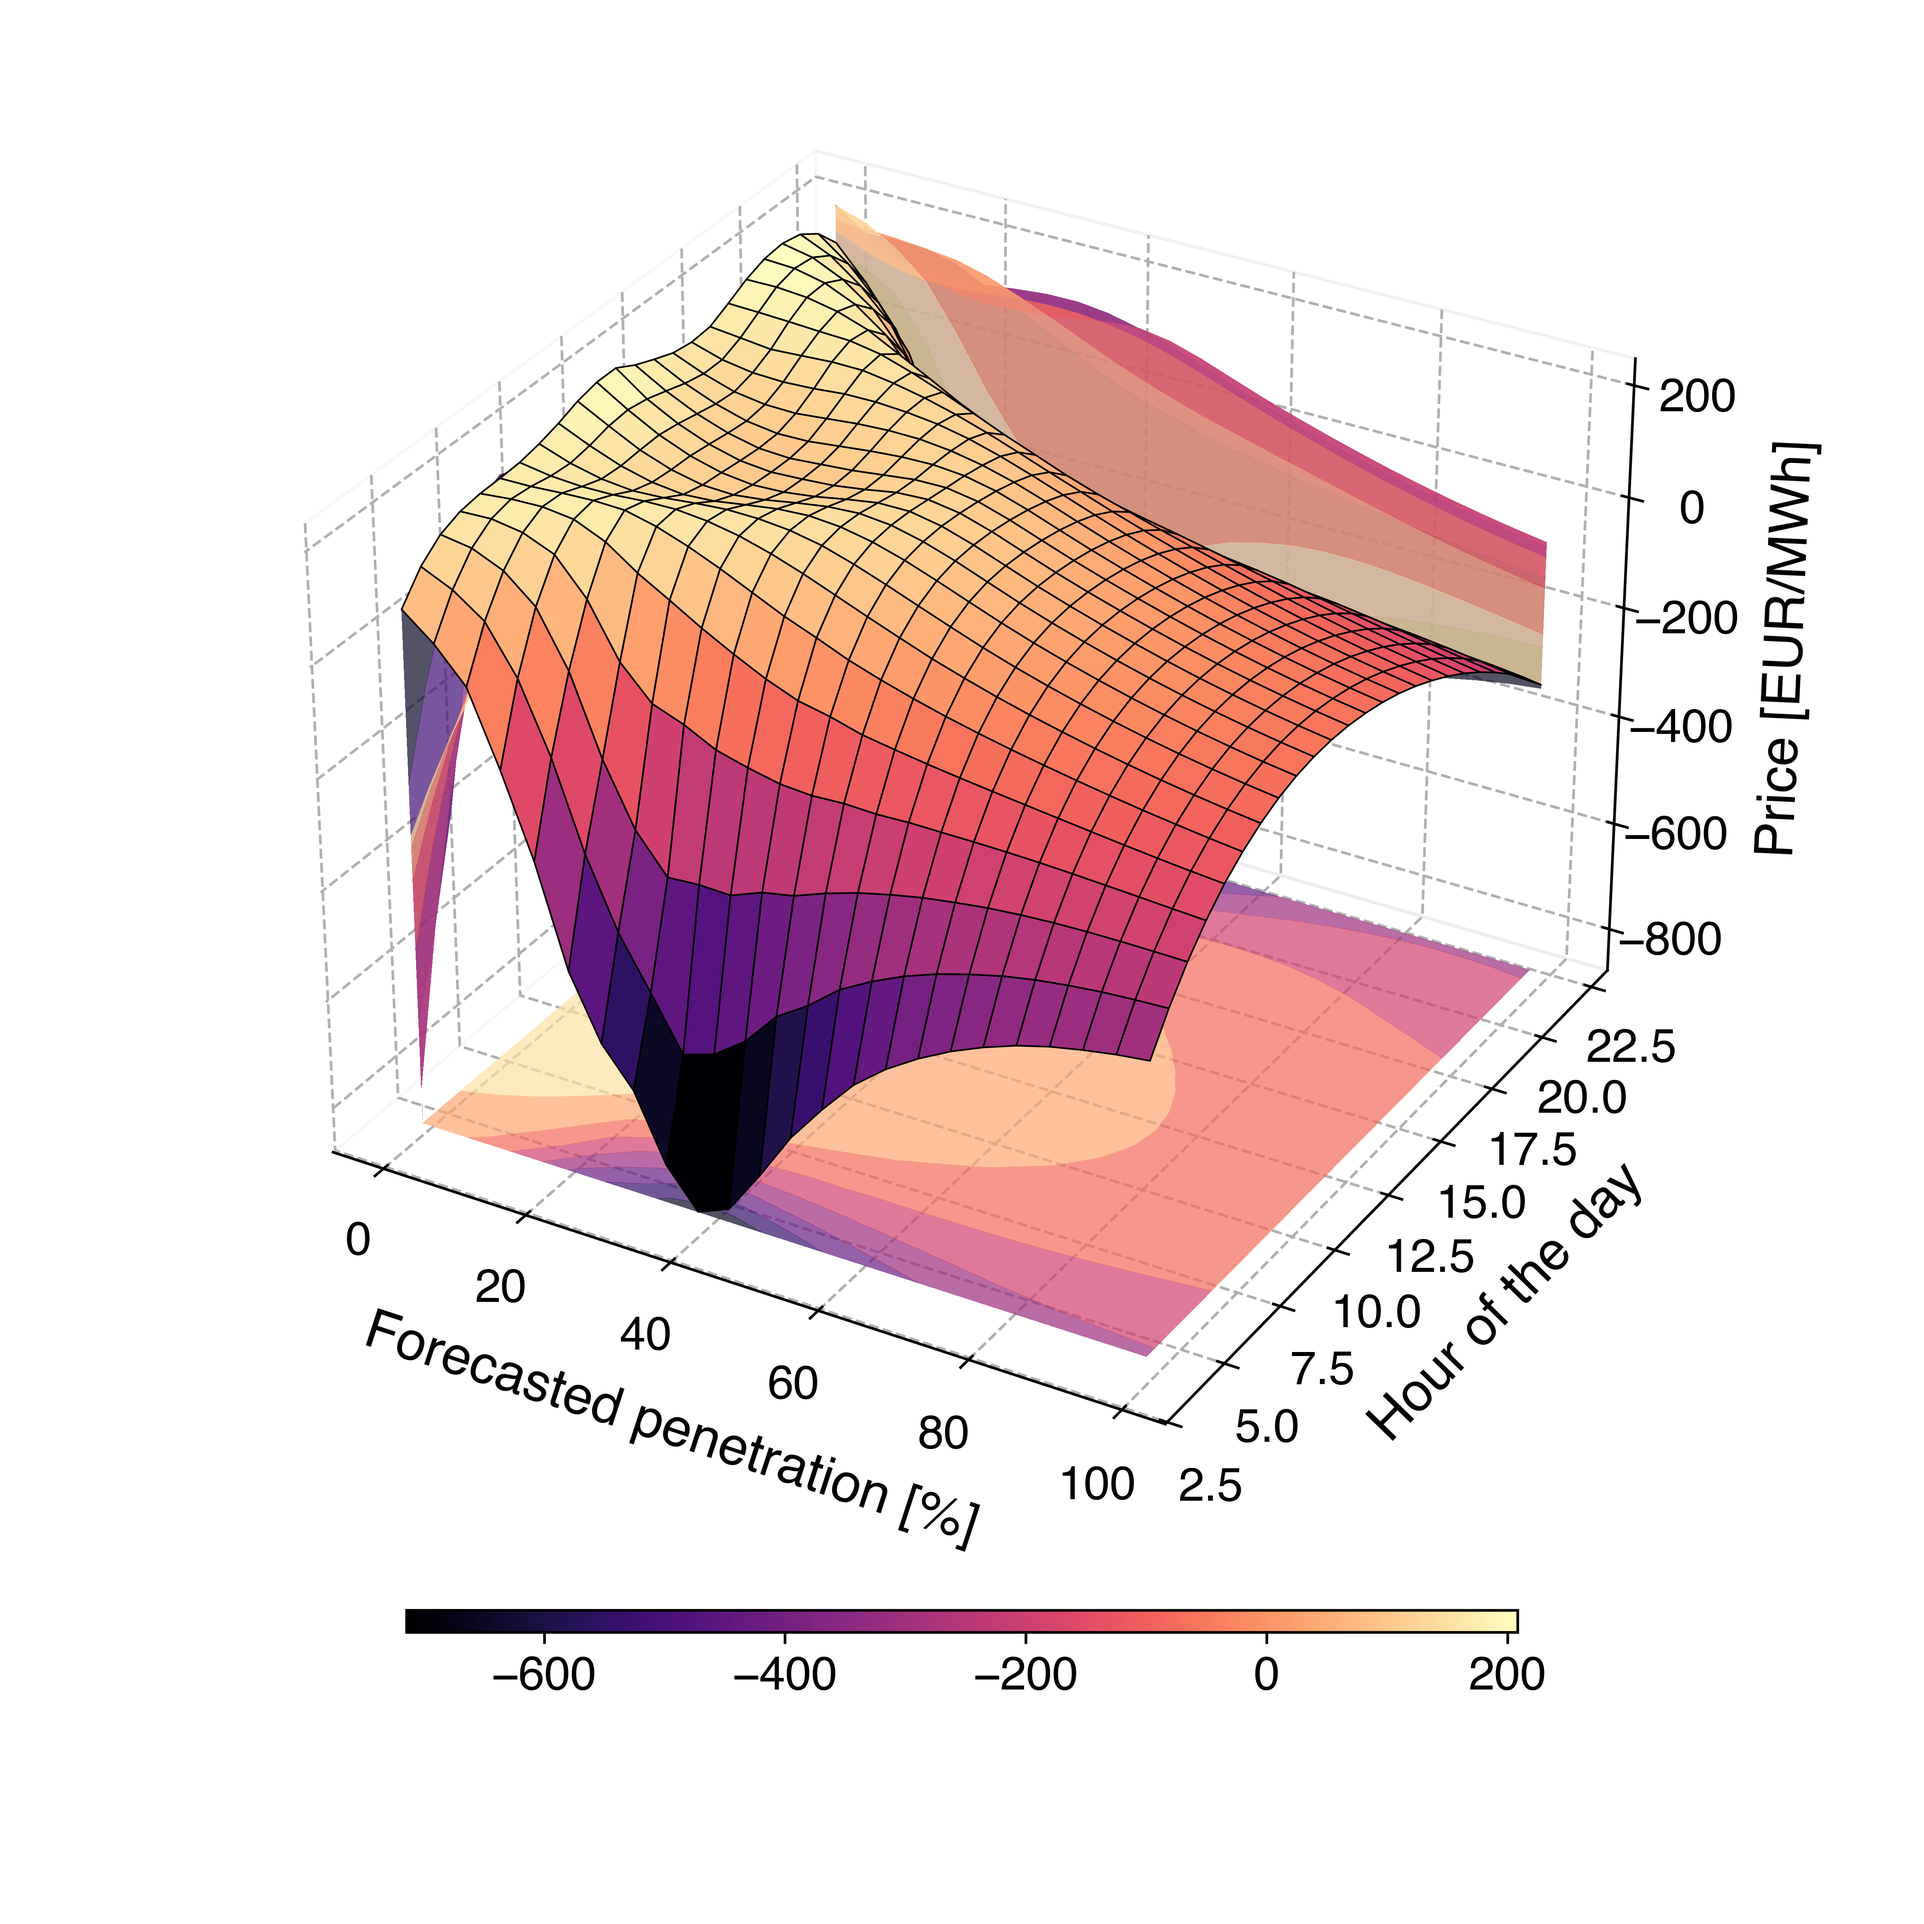
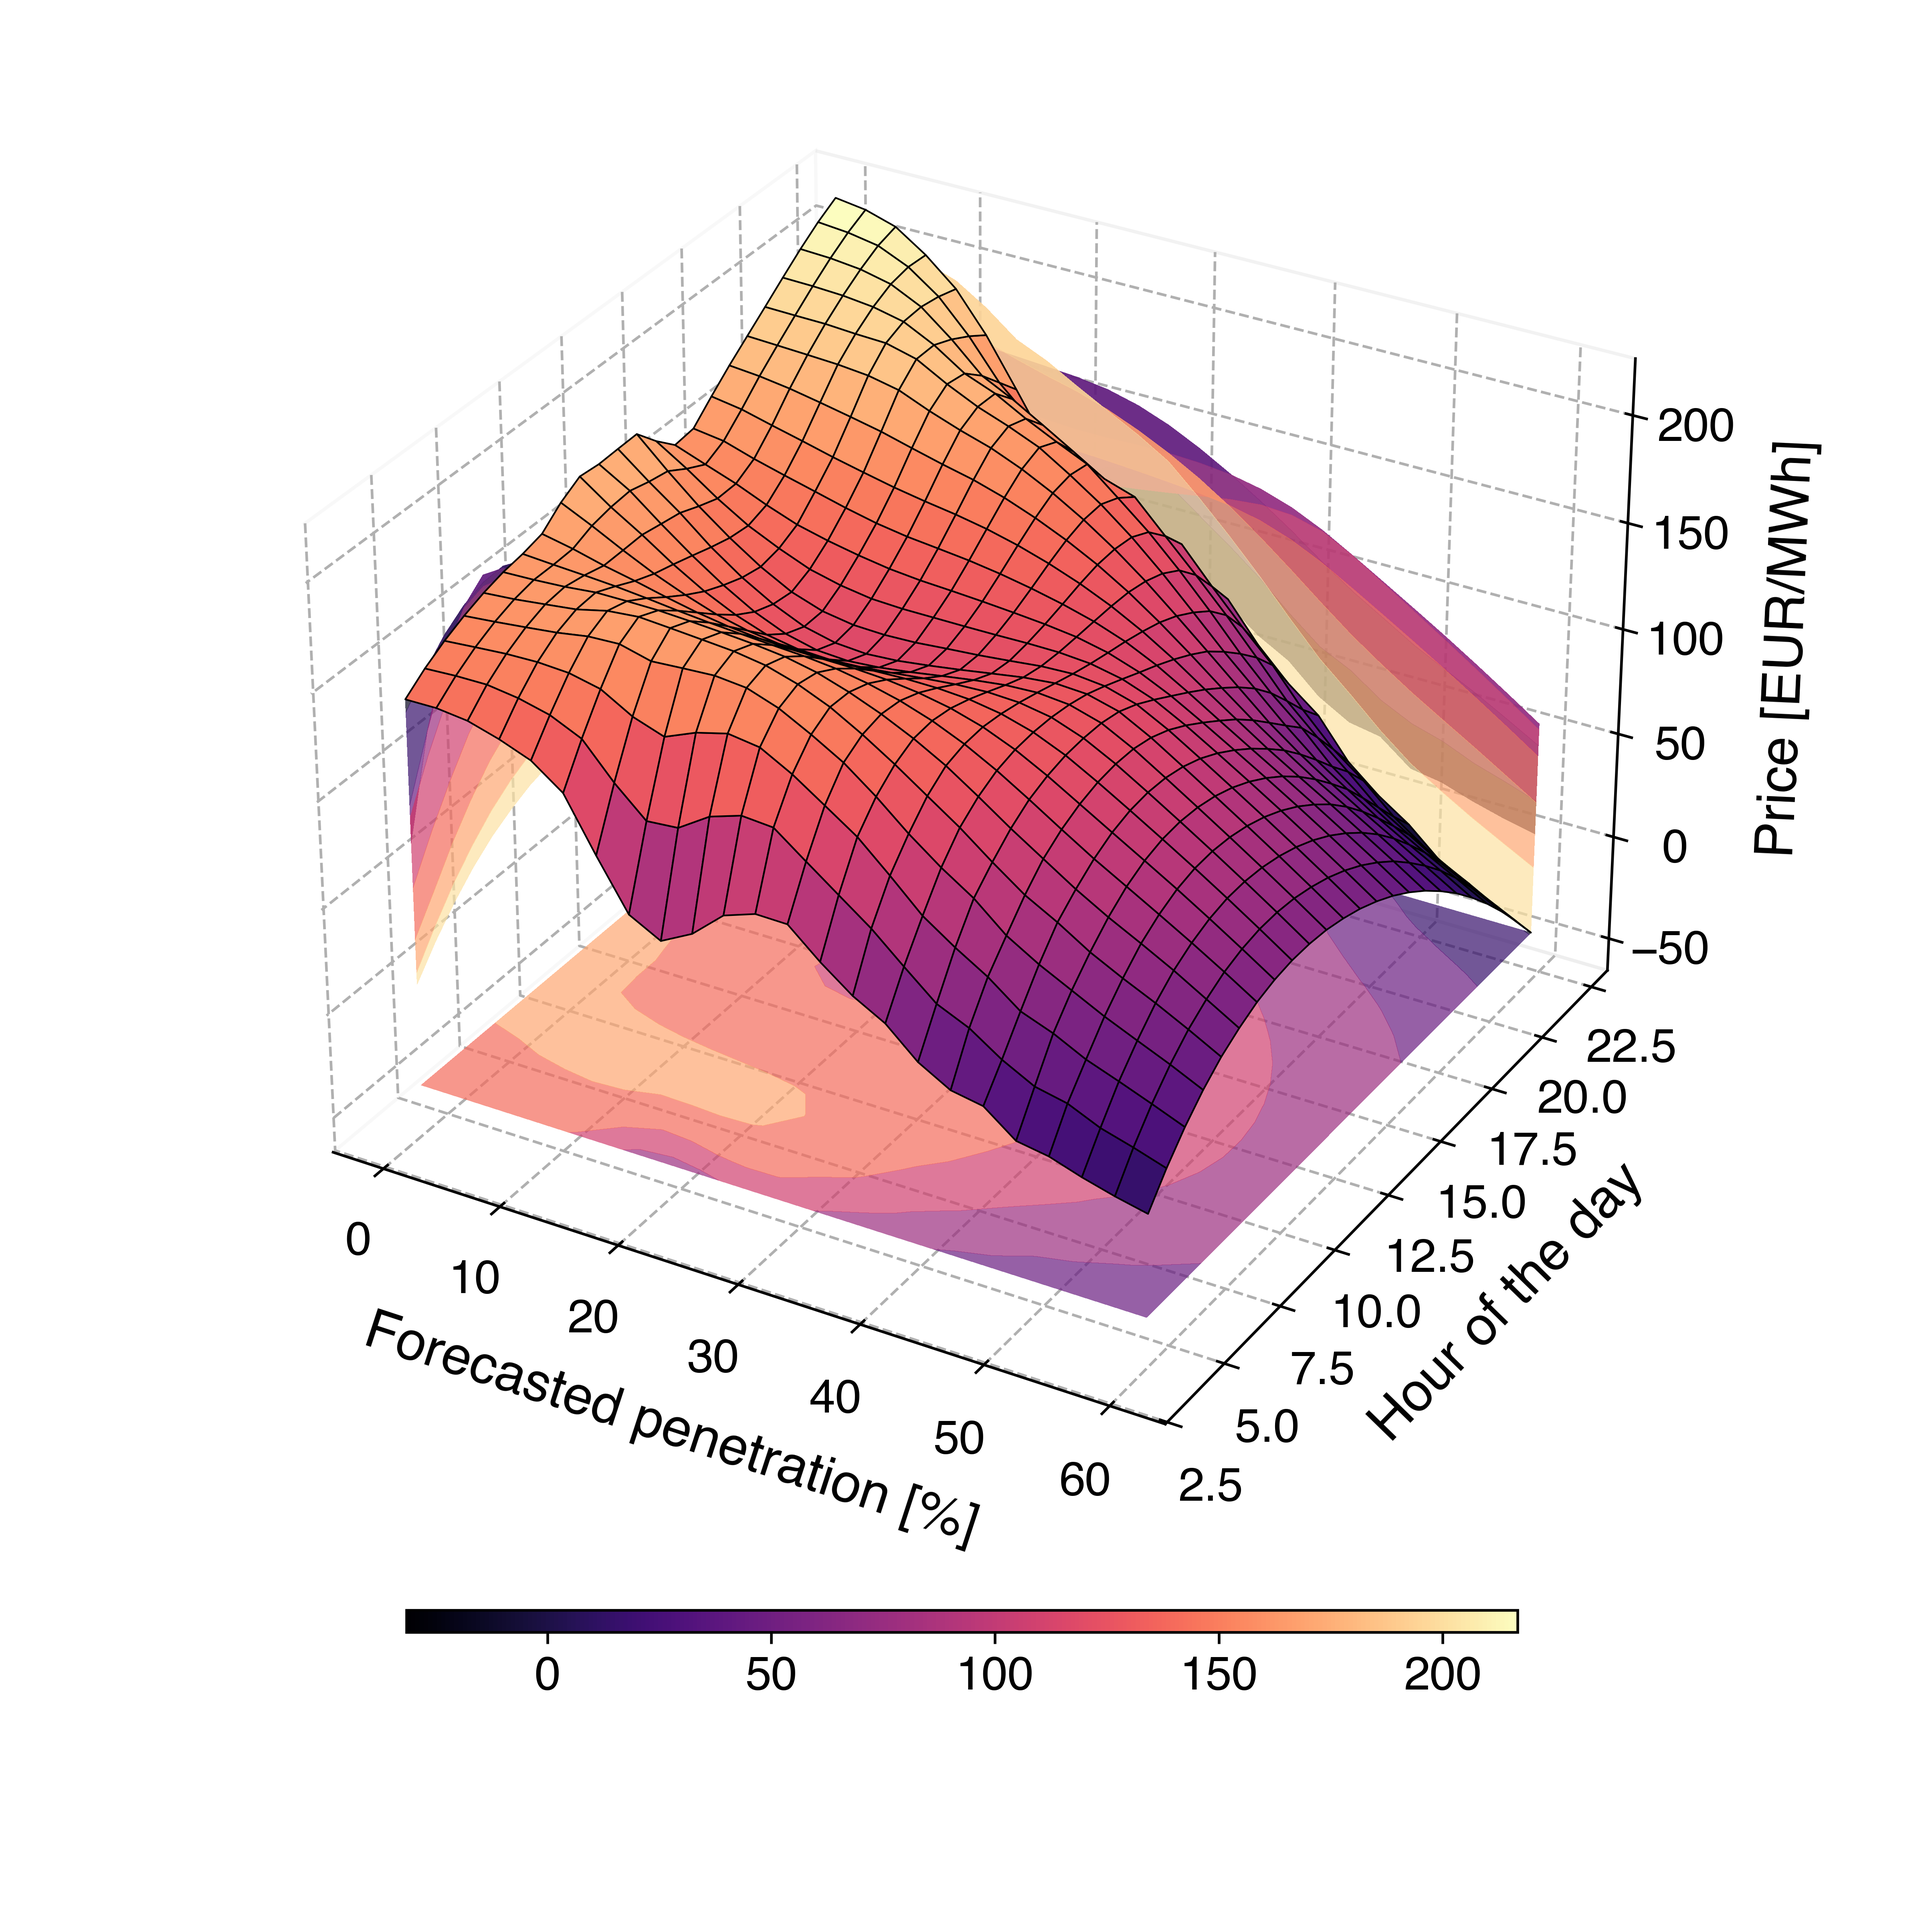
lwpr

diff --git a/models/nonlinear_regression_models/LWPR_quantile_solar.py b/models/nonlinear_regression_models/LWPR_quantile_solar.py
@@ -119,8 +119,9 @@ else:
 df = pd.read_csv('data/causal_data.csv')
 # df = df[df['solar_penetration'] != 0]
 df = df[df['solar_penetration'] >= 1]
-df['Date'] = pd.to_datetime(df['Date'])
-df.set_index('Date', inplace=True)
+df = df[df['solar_penetration'] <= 80]
+df['date'] = pd.to_datetime(df['date'])
+df.set_index('date', inplace=True)
 covariates = ['solar_penetration']
 response = 'electricity_price'
 scaler = MinMaxScaler(feature_range=(-1, 1))

diff --git a/models/double_machine_learning/DML_overall_solar.py b/models/double_machine_learning/DML_overall_solar.py
@@ -8,8 +8,8 @@ from DML_utils_solar import residualize_data, fit_residualized_model
 # Load data
 df = pd.read_csv('data/causal_data.csv')
 df = df[df['solar_penetration'] != 0]
-df['Date'] = pd.to_datetime(df['Date'])
-df.set_index('Date', inplace=True)
+df['date'] = pd.to_datetime(df['date'])
+df.set_index('date', inplace=True)
 
 # Scale the relevant columns
 df['total_load'] = df['total_load'] / 1000

diff --git a/models/nonlinear_regression_models/utils_mean.py b/models/nonlinear_regression_models/utils_mean.py
@@ -8,7 +8,7 @@ import matplotlib.pyplot as plt
 
 
 # Function to generate polynomial features up to a given order for two-dimensional input
-def polynomial_features(x, order=2):
+def polynomial_features(x, order=1):
     n = x.size(0)
     features = [torch.ones(n)]
     for i in range(1, order + 1):

diff --git a/models/nonlinear_regression_models/LWPR_mean_solar.py b/models/nonlinear_regression_models/LWPR_mean_solar.py
@@ -19,7 +19,7 @@ mpl.rcParams.update({
 
 df = pd.read_csv('data/causal_data.csv')
 df = df[df['solar_penetration'] != 0]
-# df = df[df['solar_penetration'] >= 1]
+df = df[df['solar_penetration'] < 60]
 # df = df[df['Hour'] <= 22]
 
 # Define covariates and response
